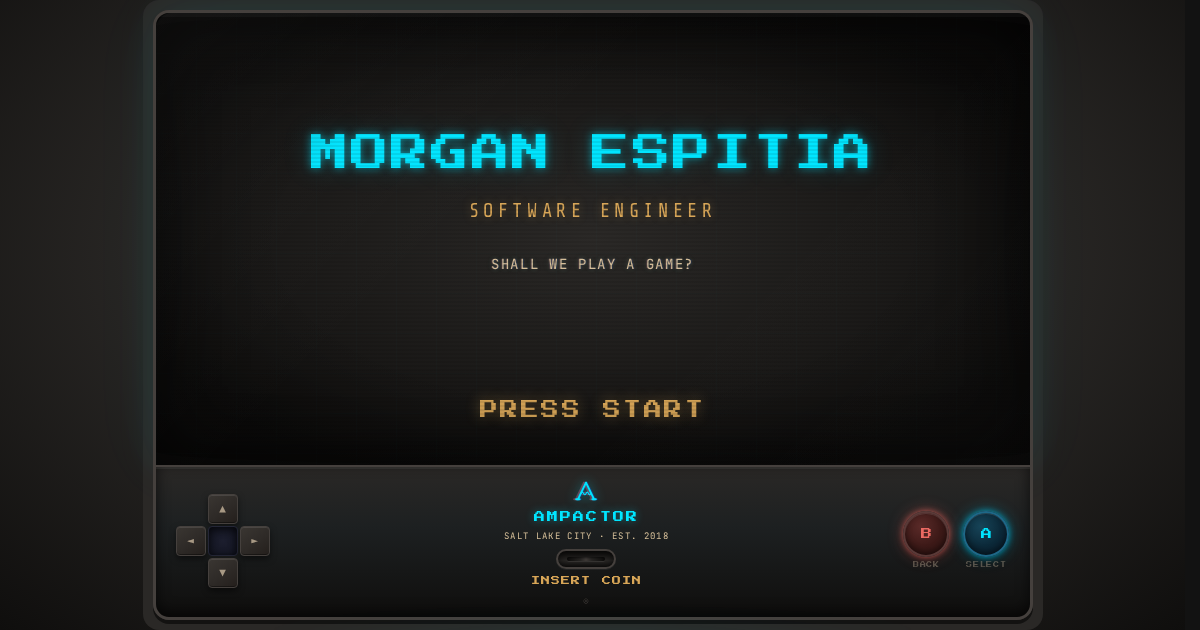
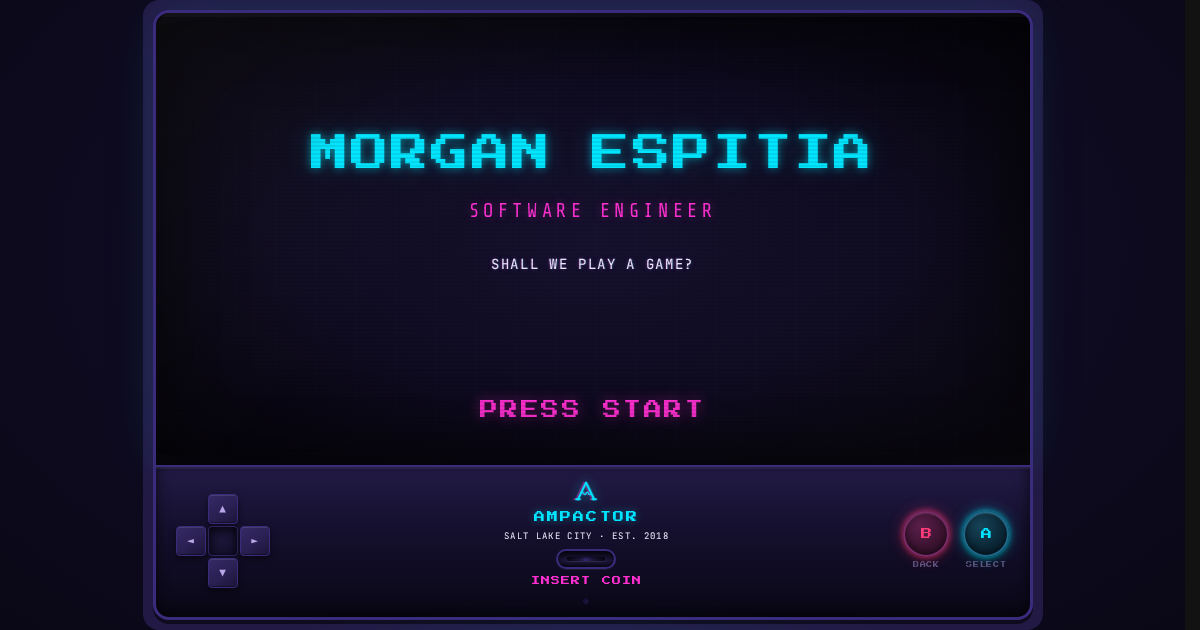
palette: indigo and void for the ground, magenta as the voice
Step 2 of docs/AUDIT-NEON.md, the values from its section 3. The room
and the tube go indigo over void, the chassis and cards dusk, the bezel
and hairlines violet; the text tiers are mist, lilac and a faint lilac
that clears 4.5:1 on every ground; every amber site (PRESS START, READY.,
INSERT COIN, the lit row, rank 1) becomes magenta, teal and verdigris
become mint, the operator's programs take the quiet violet, the bloom
behind the letters goes violet, the fringe pair is magenta and cyan.
Cyan stays the mark and the name. The room radial is two stops now,
indigo to void, painted from the tokens in both places.

The tunnel's rings run cyan, magenta, mint, violet into the band colours;
the game's HUD, overlays and hits, the synth's knobs, the coherence
field and the panel's plastics take the same family. The 404 page and
the crash overlay follow by hand; the social card is re-rendered from
the title card.

The contrast table has no debt left: every text role clears 4.5:1 on
void, room, raised and the band, with the two pairs the rules forbid
(faint and danger on the band) held below it, and void ink checked on
every lit pill. The design system gains the cabinet's palette table.

Claude-Session: https://claude.ai/code/session_01G5eQmDwUh3nhBoPmZtJjNQ

diff --git a/src/arcade/palette.js b/src/arcade/palette.js
@@ -4,89 +4,98 @@
 // they are content, not chrome: each cartridge's neon (src/data/projects.js)
 // and each bug's colour in the game (TunnelGame.jsx).
 //
-// The values are what the cabinet paints today. `cabinetCss` puts the
-// semantic set on :root as --cab-* custom properties from the document head
-// (src/data/site.js), so the room is the same colour before any script runs,
-// and no theme can flip it: the cabinet is a physical object, and it stays
-// dark in a lit room.
+// The set is the one docs/AUDIT-NEON.md section 3 derives: indigo and void
+// for the grounds, mist and lilac for the text, magenta as the machine's
+// voice, cyan kept as the mark. src/arcade/__tests__/palette.test.js holds
+// every text role against every ground to 4.5:1.
+//
+// `cabinetCss` puts the semantic set on :root as --cab-* custom properties
+// from the document head (src/data/site.js), so the room is the same colour
+// before any script runs, and no theme can flip it: the cabinet is a
+// physical object, and it stays dark in a lit room.
 
 export const PALETTE = {
-  // Grounds. Text sits only on the first three.
-  void: "#0f0e0d", // the tube's bottom, insets, the darkest shadow
-  room: "#1d2021", // the room behind the console
-  tube: "#2a2826", // the tube's centre
-  raised: "#2a2826", // the console, the chassis, cards
-  line: "#45403d", // borders, hairlines, the chassis edge; never text
+  // Grounds. Text sits only on void, room, tube, raised and band.
+  void: "#0a0716", // the tube's bottom, insets, the darkest shadow
+  room: "#15102e", // the room behind the console
+  tube: "#15102e", // the tube's centre
+  raised: "#221a45", // the console, the chassis, cards
+  line: "#3b2b7d", // borders, hairlines, the bezel; never text
+  lit: "#6b3fd6", // the lit grid and active fills; never under text
+  band: "#2b1a5e", // the title band's dark end
+  bandBright: "#4a2ca0", // the band's bright end; only text and the mark on it
 
   // Text.
-  text: "#d4be98",
-  muted: "#a89984",
-  faint: "#5a524c", // footers, ranks, the marquee, the skip hint
+  text: "#ece6fb", // primary, never white
+  muted: "#b9a6e8",
+  faint: "#8f7fb8", // footers, ranks, the marquee, the skip hint; never on the band
 
   // Accents.
   mark: "#00e5ff", // the A-mark, the name, A, the ship, the tunnel
-  voice: "#d8a657", // the machine's voice: PRESS START, READY., INSERT COIN, the lit row
-  ok: "#7daea3", // OK, status, deployed
-  halo: "#89bfad", // the phosphor bloom behind every letter
-  quiet: "#6a95a8", // the quiet accent: a status that is not live
+  voice: "#ff2fd2", // the machine's voice: PRESS START, READY., INSERT COIN, the lit row
+  voiceLt: "#ff5ce1", // the voice at 7 to 9 px, where 4.5:1 needs more room
+  ok: "#00ffd0", // OK, status, deployed
+  halo: "#b388ff", // the bloom behind the letters
+  quiet: "#b388ff", // the quiet accent: the operator's programs, a status that is not live
   coin: "#ffb800", // the coin and only the coin: the slot, the credit, rank 1
-  danger: "#ea6962", // danger text, B's label
-  hot: "#ff2266", // strokes and glows: the boss, B's ring, GAME OVER
+  ember: "#ff8a5c", // the one warm accent: deployed, COMBO
+  danger: "#ff3b7a", // danger text, B's label, GAME OVER
+  hot: "#ff2266", // strokes and glows only: the boss, B's ring
   mint: "#00ffd0", // lasers, the dust, the game's second voice
-  rose: "#d3869b", // the warm side of a chromatic ghost
+  rose: "#ff5ce1", // the warm side of a chromatic ghost
 
   // Mixers, only ever through alpha(): catch-lights and shade.
   white: "#ffffff",
   black: "#000000",
 };
 
-// The chromatic fringe on the A-mark and the boss: a warm ghost to the left,
-// a cool one to the right.
-export const FRINGE = { warm: "#db7497", cool: "#0050ff" };
+// The chromatic fringe on the A-mark and the boss: magenta to the left, cyan
+// to the right.
+export const FRINGE = { warm: PALETTE.voice, cool: PALETTE.mark };
 
 // The panel's plastics: each key as its highlight, body and shadow, and the
 // action buttons with their ring.
 export const CHROME = {
-  dpad: ["#3a3632", "#2e2a27", "#241f1c"],
-  centre: ["#1c1e2e", "#121420", "#242636"],
-  b: ["#5a2a28", "#3e1a18", "#2c1210", "#5a3a38"],
+  dpad: ["#352a66", "#2a2052", "#1c1538"],
+  centre: ["#1c1538", "#120e28", "#2f2460"],
+  b: ["#5a1f4a", "#3e1433", "#2c0d24", "#7a2a66"],
   a: ["#164458", "#0c2a3a", "#071828", "#1e6888"],
 };
 
 // The game's chrome: the HUD, the overlays, the hits. The bugs keep their own.
 export const GAME = {
-  hud: "#8fa0b3",
-  hudDim: "#778899",
-  hudFaint: "#666677",
-  ink: "#1a1410", // text on a lit pill
-  shade: "#080a0e", // the overlays' glass, through alpha()
-  hit: "#ff2222",
-  end: "#ff5a6a", // the END button
-  enraged: "#ff6600", // the boss bar while it is angry
+  hud: PALETTE.muted,
+  hudDim: PALETTE.faint,
+  hudFaint: PALETTE.faint,
+  ink: PALETTE.void, // text on a lit pill
+  shade: PALETTE.void, // the overlays' glass, through alpha()
+  hit: PALETTE.danger,
+  end: PALETTE.danger, // the END button
+  enraged: PALETTE.ember, // the boss bar while it is angry
 };
 
 // The tunnel behind the console: twelve rings from near to far, and the dust.
 export const TUNNEL = {
   rings: [
     PALETTE.mark,
+    PALETTE.voice,
     PALETTE.mint,
-    PALETTE.mark,
-    "#44aaff",
-    "#4488ff",
-    "#4466dd",
-    "#5544cc",
-    "#6644ff",
-    "#5533bb",
-    "#4422aa",
-    "#331199",
-    "#221088",
+    PALETTE.quiet,
+    "#8a5cff",
+    PALETTE.lit,
+    "#5a35b8",
+    PALETTE.bandBright,
+    PALETTE.line,
+    PALETTE.band,
+    PALETTE.raised,
+    PALETTE.room,
   ],
-  dust: [PALETTE.mint, PALETTE.mark, "#4488ff", "#6644ff"],
+  dust: [PALETTE.mint, PALETTE.mark, PALETTE.voice, PALETTE.quiet],
 };
 
 // The synth's two knob colours and the coherence field's three states.
-export const SYNTH = { cool: "#44aaff", warm: "#ff6644" };
-export const FIELD = { live: "#00dcb4", on: "#dc4632", off: "#5a8a7a" };
+export const SYNTH = { cool: PALETTE.mark, warm: PALETTE.ember };
+export const FIELD = { live: PALETTE.mint, on: PALETTE.danger, off: PALETTE.faint };
 
 // A token as an rgba() string, for glows, fills and hairlines.
 export function alpha(hex, a) {

diff --git a/public/404.html b/public/404.html
@@ -25,8 +25,8 @@
     @font-face { font-family: "Inter"; font-weight: 100 900; font-display: swap; src: url("/fonts/inter-latin-wght-normal.woff2") format("woff2"); }
     :root {
       color-scheme: dark;
-      --bg: #1d2021; --screen: #0f0e0d; --fg: #d4be98; --bright: #efe4cc; --muted: #a89984;
-      --accent: #00e5ff; --amber: #d8a657; --line: rgba(212, 190, 152, 0.18);
+      --bg: #15102e; --screen: #0a0716; --fg: #ece6fb; --bright: #ece6fb; --muted: #b9a6e8;
+      --accent: #00e5ff; --amber: #ff2fd2; --line: rgba(236, 230, 251, 0.18);
       --glow: 0 0 6px rgba(0, 229, 255, 0.55), 0 0 18px rgba(0, 229, 255, 0.2);
       --scan: rgba(0, 0, 0, 0.22);
     }
@@ -45,8 +45,8 @@
     /* The screen stays dark in both themes: it is the cabinet's tube. */
     .tube {
       width: min(560px, 100%); padding: clamp(28px, 6vw, 48px) clamp(20px, 5vw, 44px);
-      background: var(--screen); color: #d4be98; border-radius: 18px;
-      border: 10px solid #2a2826; box-shadow: 0 0 0 1px #45403d, 0 24px 60px rgba(0, 0, 0, 0.45);
+      background: var(--screen); color: #ece6fb; border-radius: 18px;
+      border: 10px solid #221a45; box-shadow: 0 0 0 1px #3b2b7d, 0 24px 60px rgba(0, 0, 0, 0.45);
       position: relative; overflow: hidden;
     }
     .tube::after {
@@ -54,27 +54,27 @@
       background: repeating-linear-gradient(to bottom, transparent 0 2px, var(--scan) 2px 3px);
     }
     .code {
-      margin: 0 0 6px; font: 11px/1.4 "Press Start 2P", monospace; letter-spacing: 0.2em; color: #a89984;
+      margin: 0 0 6px; font: 11px/1.4 "Press Start 2P", monospace; letter-spacing: 0.2em; color: #b9a6e8;
     }
     h1 {
       margin: 0; font: clamp(20px, 5.4vw, 30px)/1.35 "Press Start 2P", monospace; color: #00e5ff;
       text-shadow: 0 0 6px rgba(0, 229, 255, 0.55), 0 0 18px rgba(0, 229, 255, 0.2); letter-spacing: 0.04em;
     }
-    .said { margin: 22px 0 0; font-family: "JetBrains Mono", monospace; font-size: 14px; color: #a89984; overflow-wrap: anywhere; }
-    .said b { color: #efe4cc; font-weight: 500; }
-    .said .cursor { display: inline-block; width: 0.6em; height: 1em; margin-left: 2px; vertical-align: -2px; background: #d8a657; animation: blink 1.1s steps(1) infinite; }
+    .said { margin: 22px 0 0; font-family: "JetBrains Mono", monospace; font-size: 14px; color: #b9a6e8; overflow-wrap: anywhere; }
+    .said b { color: #ece6fb; font-weight: 500; }
+    .said .cursor { display: inline-block; width: 0.6em; height: 1em; margin-left: 2px; vertical-align: -2px; background: #ff2fd2; animation: blink 1.1s steps(1) infinite; }
     @keyframes blink { 50% { opacity: 0; } }
-    .quote { margin: 18px 0 0; font: 9px/1.9 "Press Start 2P", monospace; letter-spacing: 0.1em; color: #a89984; }
-    .continue { margin: 30px 0 12px; font: 11px/1 "Press Start 2P", monospace; letter-spacing: 0.2em; color: #d8a657; }
+    .quote { margin: 18px 0 0; font: 9px/1.9 "Press Start 2P", monospace; letter-spacing: 0.1em; color: #b9a6e8; }
+    .continue { margin: 30px 0 12px; font: 11px/1 "Press Start 2P", monospace; letter-spacing: 0.2em; color: #ff2fd2; }
     ul { list-style: none; margin: 0; padding: 0; display: grid; gap: 2px; font-family: "JetBrains Mono", monospace; font-size: 15px; }
     li a {
       display: flex; align-items: center; gap: 12px; min-height: 44px; padding: 0 10px; margin: 0 -10px;
-      color: #d4be98; text-decoration: none; border-radius: 6px;
+      color: #ece6fb; text-decoration: none; border-radius: 6px;
     }
     li a::before { content: "\25B8"; color: transparent; font-size: 12px; }
     li a:hover, li a:focus-visible { background: rgba(0, 229, 255, 0.07); color: #00e5ff; outline: none; }
     li a:hover::before, li a:focus-visible::before { color: #00e5ff; }
-    li small { color: #a89984; font-size: 12px; margin-left: auto; text-align: right; }
+    li small { color: #b9a6e8; font-size: 12px; margin-left: auto; text-align: right; }
     .foot { margin: 22px auto 0; width: min(560px, 100%); font-size: 13px; color: var(--muted); text-align: center; }
     .foot a { color: inherit; }
     @media (prefers-reduced-motion: reduce) { .said .cursor { animation: none; } }

diff --git a/src/arcade/__tests__/palette.test.js b/src/arcade/__tests__/palette.test.js
@@ -15,33 +15,44 @@ const contrast = (a, b) => {
 };
 
 // The grounds text sits on, and every role that is ever text.
-const GROUNDS = ["void", "room", "tube"];
+const GROUNDS = ["void", "room", "tube", "raised", "band"];
 const TEXT = [
   "text",
   "muted",
   "faint",
   "mark",
   "voice",
+  "voiceLt",
   "ok",
   "halo",
   "quiet",
   "coin",
+  "ember",
   "danger",
   "mint",
 ];
-// Pairs under 4.5:1 today, listed so they cannot hide. The palette swap
-// (step 2 of docs/AUDIT-NEON.md) empties this list.
-const BELOW = new Set(["faint/void", "faint/room", "faint/tube"]);
+// Pairs under 4.5:1 that the rules forbid (docs/AUDIT-NEON.md section 3):
+// the faint tier and danger never sit on the title band. Held below 4.5 so
+// the rule is removed the day the numbers no longer need it.
+const FORBIDDEN = new Set(["faint/band", "danger/band"]);
+// Pairs under 4.5:1 that are debt. Empty since the palette swap.
+const BELOW = new Set();
 
 describe("the cabinet's palette", () => {
-  it("every text role clears 4.5:1 on every ground, except the listed debt", () => {
+  it("every text role clears 4.5:1 on every ground it may sit on", () => {
     for (const t of TEXT)
       for (const g of GROUNDS) {
         const ratio = contrast(PALETTE[t], PALETTE[g]);
-        if (BELOW.has(`${t}/${g}`))
-          expect(ratio, `${t} on ${g} is listed as debt`).toBeLessThan(4.5);
-        else expect(ratio, `${t} on ${g}`).toBeGreaterThanOrEqual(4.5);
+        const pair = `${t}/${g}`;
+        if (FORBIDDEN.has(pair) || BELOW.has(pair))
+          expect(ratio, `${pair} is listed`).toBeLessThan(4.5);
+        else expect(ratio, pair).toBeGreaterThanOrEqual(4.5);
       }
+  });
+
+  it("void ink reads on every lit pill", () => {
+    for (const pill of ["voice", "mark", "coin", "mint"])
+      expect(contrast(PALETTE.void, PALETTE[pill]), pill).toBeGreaterThanOrEqual(4.5);
   });
 
   it("every value is a six-digit hex", () => {

diff --git a/src/data/programs.js b/src/data/programs.js
@@ -14,7 +14,7 @@ export const SYSTEM_PROGRAMS = [
     title: "HOW TO PLAY",
     subtitle: "THE CONTROLS",
     lang: "OPERATOR",
-    color: PALETTE.voice,
+    color: PALETTE.quiet,
     icon: "?",
     category: "operator",
     links: [
@@ -32,7 +32,7 @@ export const SYSTEM_PROGRAMS = [
     title: "HIGH SCORES",
     subtitle: "EVERY PUBLIC COMMIT",
     lang: "OPERATOR",
-    color: PALETTE.voice,
+    color: PALETTE.quiet,
     icon: "★",
     category: "operator",
     links: [
@@ -50,7 +50,7 @@ export const SYSTEM_PROGRAMS = [
     title: "CREDITS",
     subtitle: "",
     lang: "OPERATOR",
-    color: PALETTE.voice,
+    color: PALETTE.quiet,
     icon: "≡",
     category: "operator",
     links: [

diff --git a/src/head/boot-shim.js b/src/head/boot-shim.js
@@ -37,7 +37,7 @@
       el = document.createElement("pre");
       el.id = "boot-error";
       el.style.cssText =
-        "position:fixed;inset:0;z-index:99999;margin:0;padding:18px;background:#0f0e0d;color:#ff5a6a;font:12px/1.6 ui-monospace,monospace;white-space:pre-wrap;word-break:break-word;overflow:auto";
+        "position:fixed;inset:0;z-index:99999;margin:0;padding:18px;background:#0a0716;color:#ff3b7a;font:12px/1.6 ui-monospace,monospace;white-space:pre-wrap;word-break:break-word;overflow:auto";
       (document.body || document.documentElement).appendChild(el);
     }
     el.textContent = "⚠ boot error — please screenshot and send:\n\n" + msg;

diff --git a/src/styles/global.css b/src/styles/global.css
@@ -42,7 +42,6 @@ html[data-stage] body {
   background: radial-gradient(
     ellipse at 50% 40%,
     var(--cab-room) 0%,
-    var(--cab-raised) 50%,
     var(--cab-void) 100%
   );
 }

diff --git a/src/arcade/styles/stage.module.css b/src/arcade/styles/stage.module.css
@@ -27,7 +27,6 @@
   background: radial-gradient(
     ellipse at 50% 40%,
     var(--cab-room) 0%,
-    var(--cab-raised) 50%,
     var(--cab-void) 100%
   );
 }

diff --git a/docs/DESIGN-SYSTEM.md b/docs/DESIGN-SYSTEM.md
@@ -96,6 +96,31 @@ What that means for the site:
 > The muted **patina teal `#7daea3`** (`--color-teal`) is a different colour used as a
 > syntax/role colour. "The cyan / the glow" always means `#00E5FF`.
 
+### The cabinet's palette
+
+The machine's own set, in `src/arcade/palette.js` by role and on `:root` as
+`--cab-*`. Indigo and void for the grounds, mist and lilac for the text, magenta
+as the machine's voice, cyan kept as the mark (`docs/AUDIT-NEON.md` section 3
+has every ratio). Text sits only on void, room, raised and the band; never on
+`line`, `lit` or `bandBright`.
+
+| Role | Hex | Use |
+|---|---|---|
+| `void` / `room` / `raised` | `#0a0716` / `#15102e` / `#221a45` | The tube's bottom and insets; the room and the tube's centre; the console, the chassis and cards. |
+| `line` / `lit` | `#3b2b7d` / `#6b3fd6` | Borders and hairlines; the lit grid and active fills. Never under text. |
+| `band` / `bandBright` | `#2b1a5e` / `#4a2ca0` | The title band, dark end to bright end. |
+| `text` / `muted` / `faint` | `#ece6fb` / `#b9a6e8` / `#8f7fb8` | The three text tiers. Faint never sits on the band. |
+| `mark` | `#00e5ff` | The A-mark, the name, the A button, the ship, the tunnel. |
+| `voice` / `voiceLt` | `#ff2fd2` / `#ff5ce1` | The machine's voice: PRESS START, READY., INSERT COIN, the lit row; the lighter one at 7 to 9 px. |
+| `ok` / `mint` | `#00ffd0` | OK, status, deployed; lasers and the dust. |
+| `quiet` / `halo` | `#b388ff` | The operator's programs and a status that is not live; the bloom behind the letters. |
+| `coin` | `#ffb800` | The coin and only the coin. |
+| `ember` | `#ff8a5c` | The one warm accent. |
+| `danger` / `hot` | `#ff3b7a` / `#ff2266` | Danger text and B's label; strokes and glows only. |
+
+The pages (`/receipts/`, `/craft/`, the résumé) still paint the Patina palette
+below until their own step of the audit.
+
 ### Core palette (Patina Dark)
 
 | Token | Hex | Role |
@@ -118,7 +143,7 @@ What that means for the site:
 
 Each project owns one neon in `projects.js`, used raw in the cabinet: the row's icon
 tile and its lit bar, the title when the row is active, the readout's faint bleed
-behind the screen. The operator's programs share amber. The pages paint no project
+behind the screen. The operator's programs share the quiet violet. The pages paint no project
 colour; the ledger's repository chips are monochrome.
 
 ### Light theme — shipped
